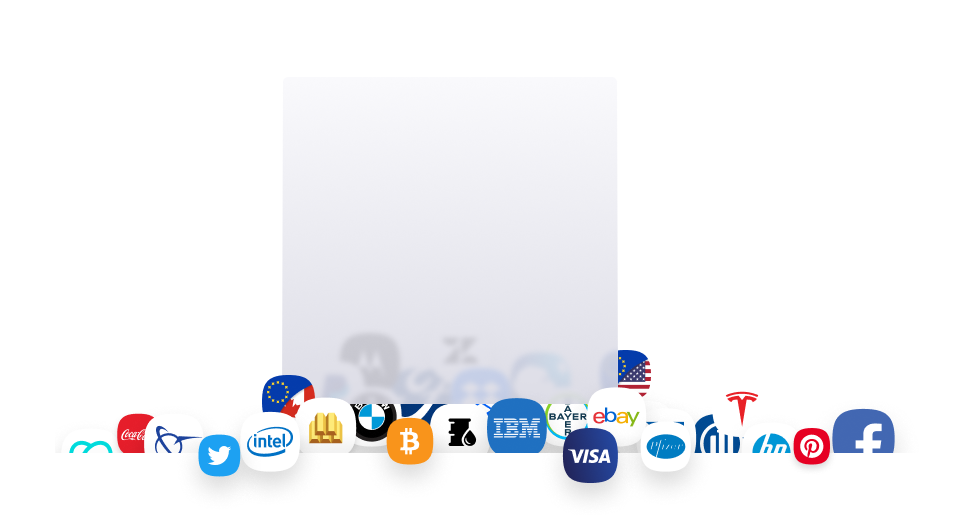
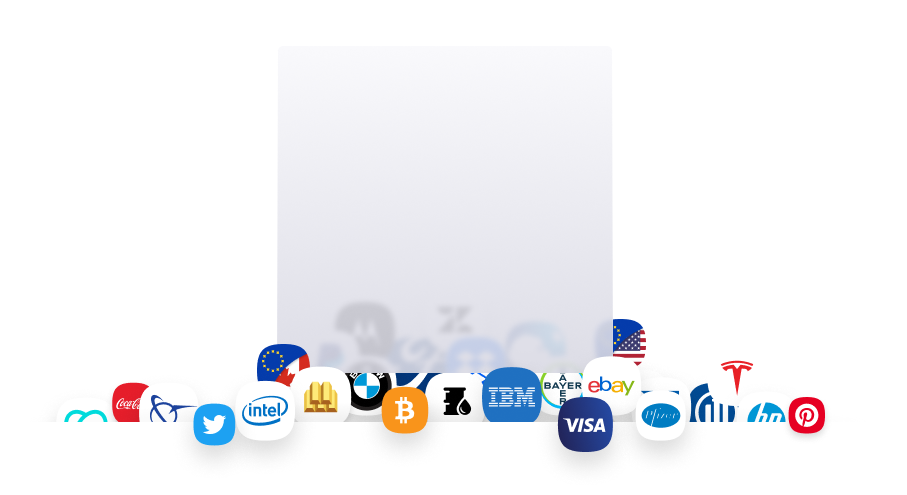
[uinvex] products page complete view

Changed region(s): [[0.0617, 0.5152, 0.9261, 0.9697]]

diff --git a/src/components/pages/main/products/_uinvex/components/topSection/TopSection.tsx b/src/components/pages/main/products/_uinvex/components/topSection/TopSection.tsx
@@ -1,10 +1,9 @@
-import { Button, SectionBg } from '@components/shared';
+import { Button, Col, Container, Row, SectionBg } from '@components/shared';
 import { EAssetClass } from '@domain/enums';
 import { config } from '@pages/main/products';
-import { useDeviceDetect } from '@utils/hooks';
+import { useResponsive } from 'ahooks';
 import classNames from 'classnames';
 import React, { RefObject, useEffect, useState } from 'react';
-import { useTranslation } from 'react-i18next';
 import { useHistory } from 'react-router-dom';
 import './TopSection.scss';
 
@@ -14,9 +13,8 @@ export interface IProductsTopSectionProps {
 
 export function TopSection({ sectionRefs }: IProductsTopSectionProps) {
   const [activeSection, selectedSection] = useState('forex');
-  const device = useDeviceDetect();
+  const responsive = useResponsive();
   let { location, replace }: any = useHistory();
-  const { t } = useTranslation();
 
   useEffect(() => {
     if (location.state?.scrollTo) {
@@ -35,6 +33,7 @@ export function TopSection({ sectionRefs }: IProductsTopSectionProps) {
       sectionRefs[type].current.scrollIntoView({ behavior: 'smooth' });
     };
   }
+
   return (
     <section className="page-top">
       <SectionBg
@@ -45,55 +44,54 @@ export function TopSection({ sectionRefs }: IProductsTopSectionProps) {
           lg: 'products-page-top-desktop.png',
         }}
       />
-      <div className="container">
-        <div className="row mb-9">
-          <div className="col text-center">
+      <Container>
+        <Row className="mb-9">
+          <Col className="text-center">
             <div className="page-top__title">{config.pageTopTitle}</div>
-          </div>
-        </div>
-        {!device.isMobile && (
-          <div className="nav-buttons row no-gutters mx-auto">
+          </Col>
+        </Row>
+        {responsive.md ? (
+          <Row className="nav-buttons no-gutters mx-auto">
             {config.headerNavigation.map((navBtn, n) => (
-              <div key={n} className="col">
+              <Col key={n}>
                 <Button
                   className={classNames('px-8', navBtn.anchor === activeSection && 'active')}
                   onClick={navigateToSection(navBtn.anchor)}
                 >
                   {navBtn.label}
                 </Button>
-              </div>
+              </Col>
             ))}
-          </div>
-        )}
-        {device.isMobile && (
+          </Row>
+        ) : (
           <>
-            <div className="nav-buttons row no-gutters mx-auto mb-10">
+            <Row className="nav-buttons no-gutters mx-auto mb-10">
               {config.headerNavigation.slice(0, 3).map((navBtn, n) => (
-                <div key={n} className="col">
+                <Col key={n}>
                   <Button
                     className={classNames('px-8', navBtn.anchor === activeSection && 'active')}
                     onClick={navigateToSection(navBtn.anchor)}
                   >
                     {navBtn.label}
                   </Button>
-                </div>
+                </Col>
               ))}
-            </div>
-            <div className="nav-buttons row no-gutters mx-auto">
+            </Row>
+            <Row className="nav-buttons no-gutters mx-auto">
               {config.headerNavigation.slice(3, 5).map((navBtn, n) => (
-                <div key={n} className="col">
+                <Col key={n}>
                   <Button
                     className={classNames('px-8', navBtn.anchor === activeSection && 'active')}
                     onClick={navigateToSection(navBtn.anchor)}
                   >
                     {navBtn.label}
                   </Button>
-                </div>
+                </Col>
               ))}
-            </div>
+            </Row>
           </>
         )}
-      </div>
+      </Container>
     </section>
   );
 }

diff --git a/src/components/pages/main/products/_uinvex/components/topSection/TopSection.scss b/src/components/pages/main/products/_uinvex/components/topSection/TopSection.scss
@@ -4,7 +4,7 @@
 .product-wrapper {
   .page-top {
     @include mt((xs: $menu-height-main-sm, md: $menu-height-main-md, lg: $menu-height-main-lg));
-    @include height((md:336px, lg:344px));
+    @include height((xs: 422px, md:336px, lg:344px));
     @include pt((md: 50px, lg: 90px), i);
     display: flex;
     align-items: center;
@@ -12,10 +12,13 @@
     color: #fff;
 
     .section-bg .secondary-bg {
-      @include height((md:421px, lg:436px));
+      @include height((xs: 495px, md:421px, lg:436px));
+      background-position: calc(50% + 8px) 50% !important;
     }
 
     &__title {
+      @include width((xs: 330px, md: auto));
+      @include mx((xs: auto));
       font-size: 40px;
       line-height: 50px;
       color: $dark-text;
@@ -30,15 +33,6 @@
       width: fit-content;
       background: white;
       border-radius: 25px;
-
-      @media (min-width: $viewport-md-min-w) {
-        justify-content: center;
-      }
-
-      @media (max-width: $viewport-md-w) {
-        justify-content: space-between;
-        max-width: 75vw;
-      }
 
       .col {
         flex-grow: 0;
